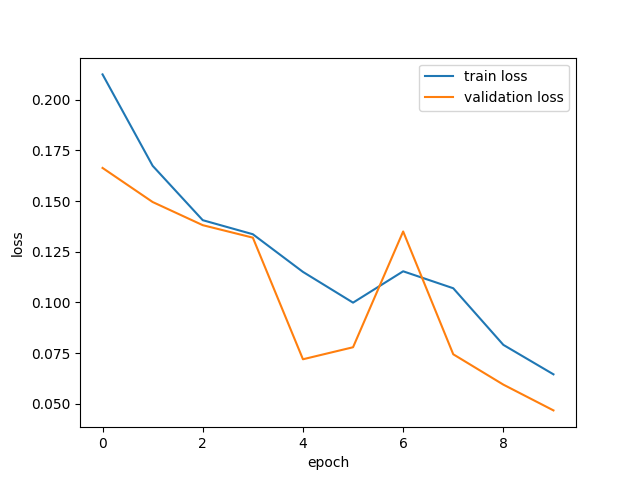
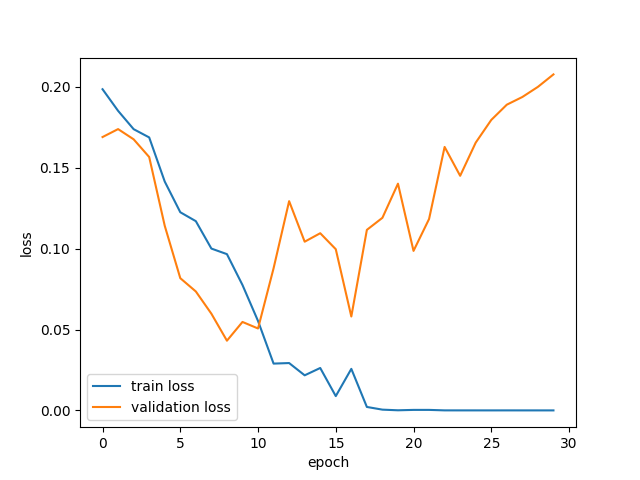
add

diff --git a/main.py b/main.py
@@ -67,7 +67,7 @@ age_criterion = nn.CrossEntropyLoss(weight=age_weight)
 optimizer = optim.Adam(model.parameters(), lr=0.0001)
 
 #学習・検証
-epochs = 10
+epochs = 30
 train_loss_list = []
 valid_loss_list = []
 train_correct_sex_list = []
